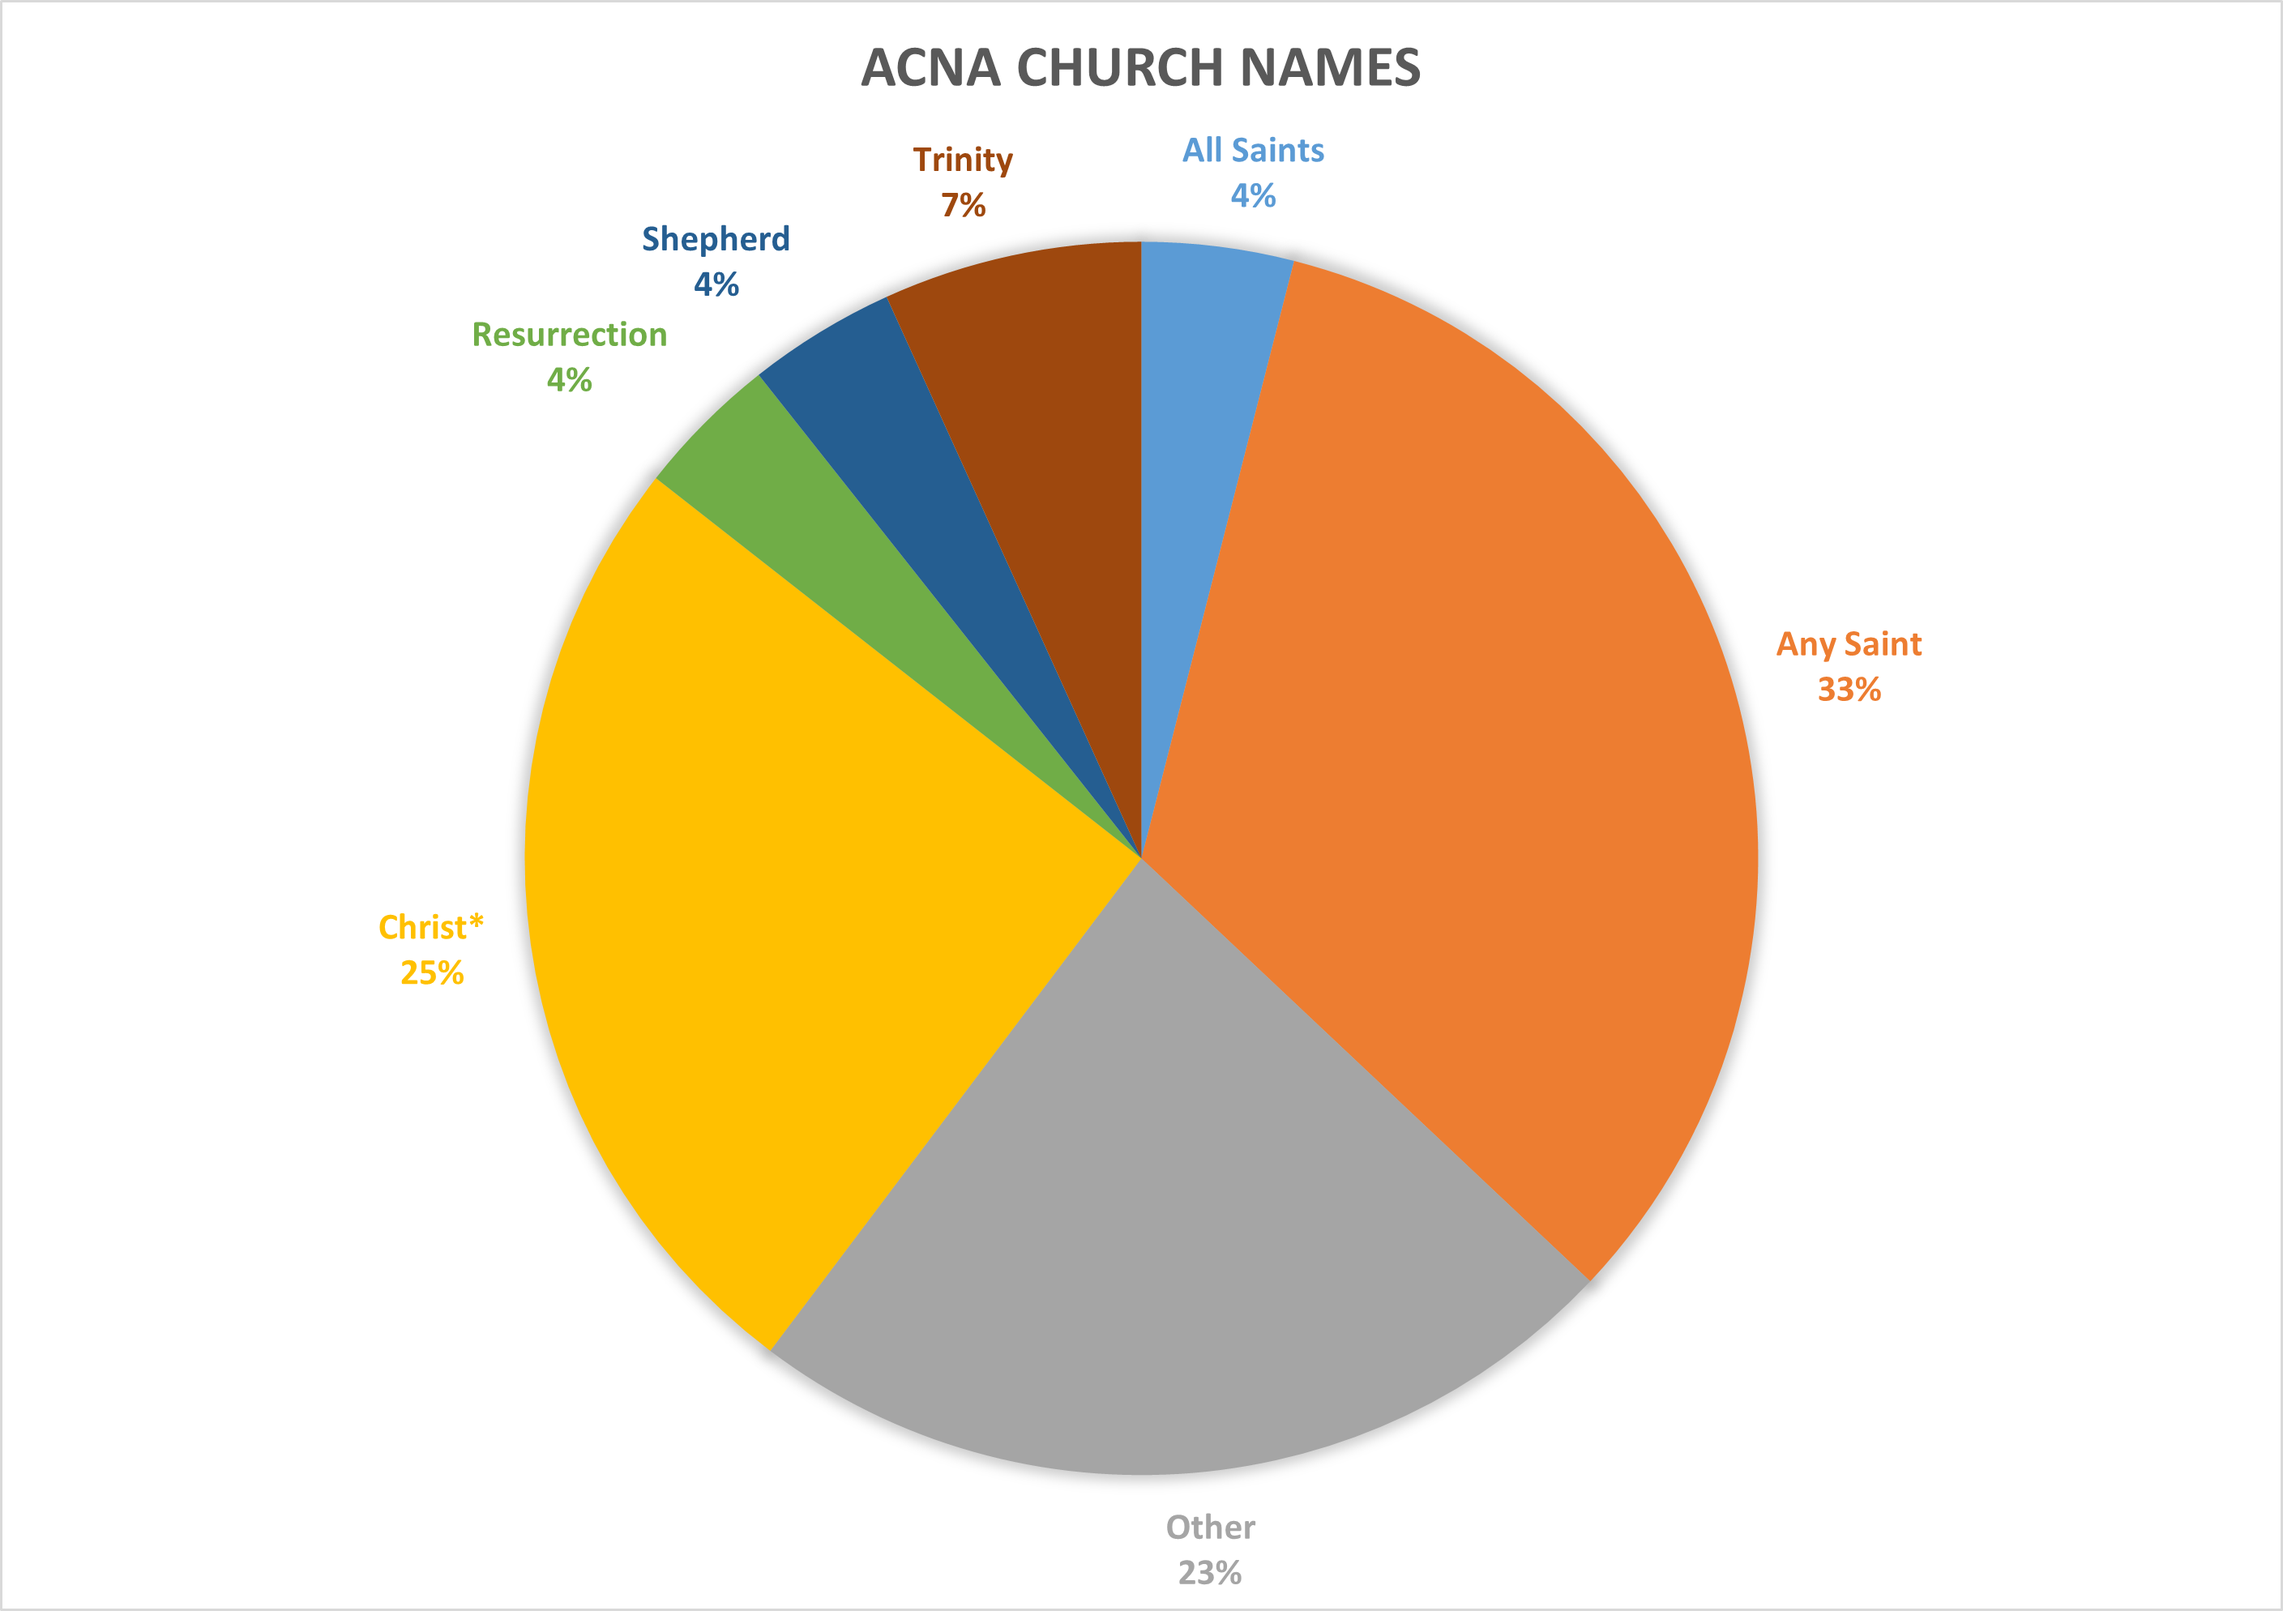
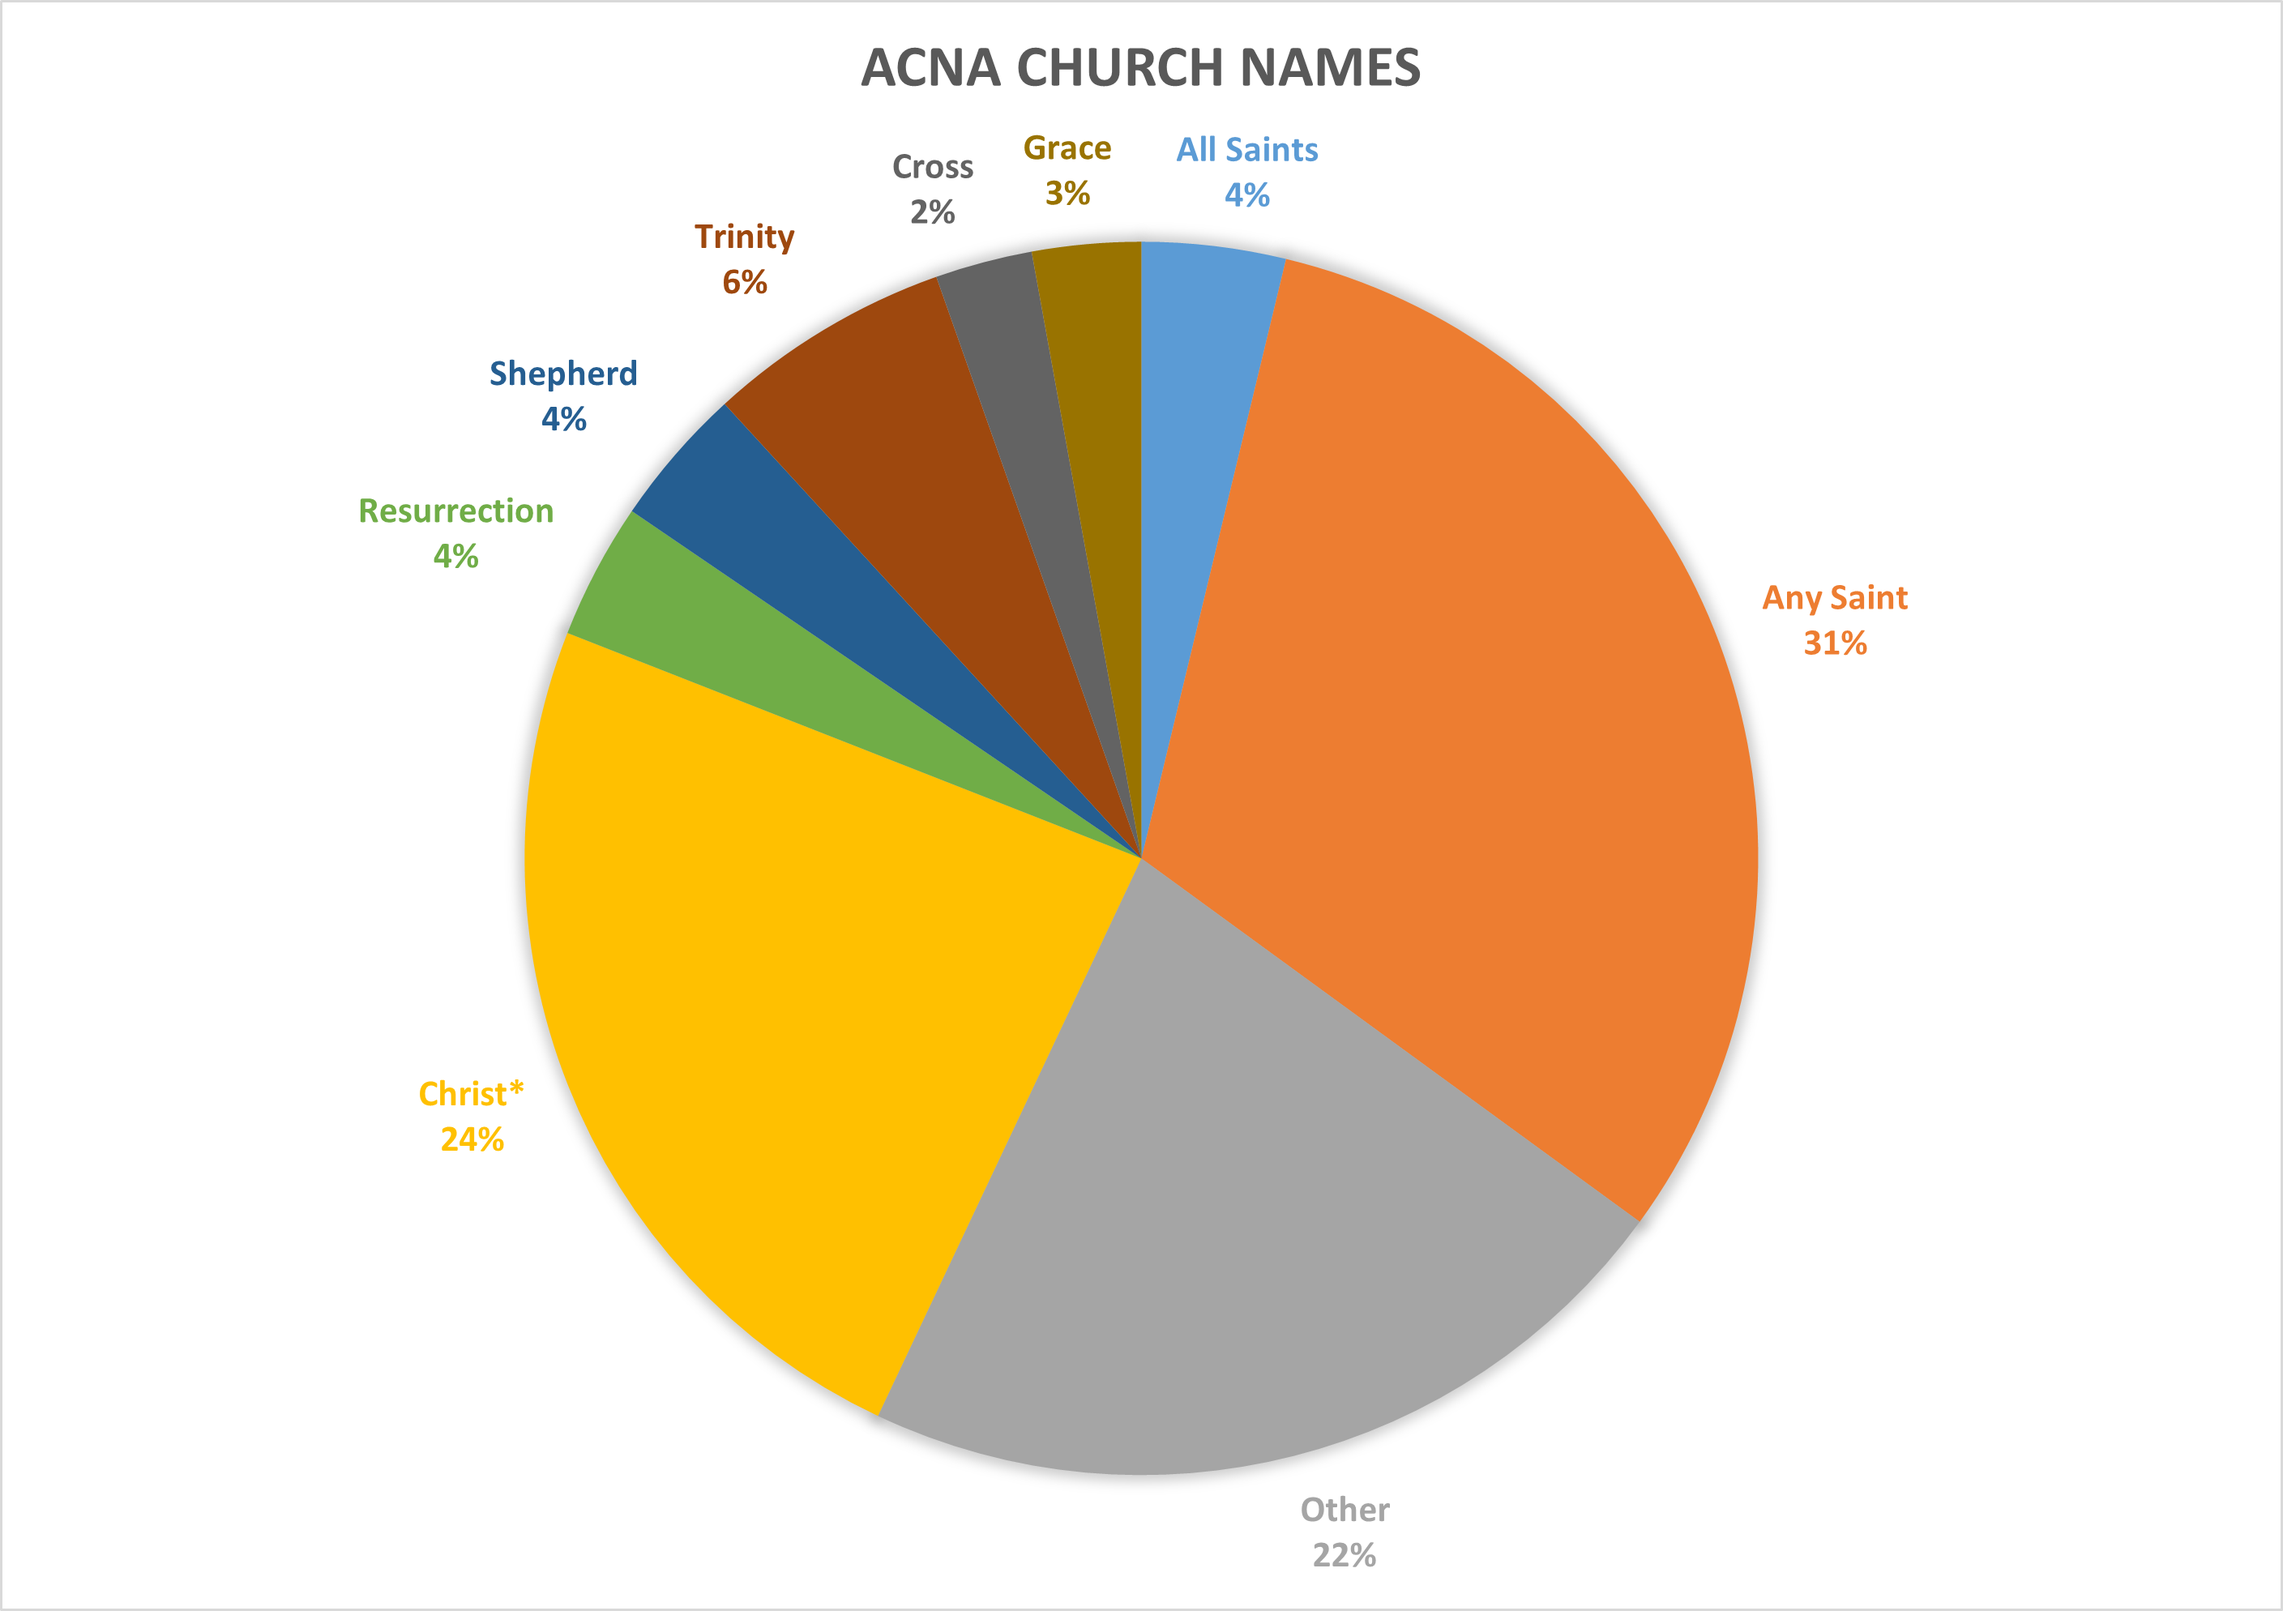
more

diff --git a/acna_names.html b/acna_names.html
@@ -40,13 +40,13 @@
       <p>I got the data (which was just names) from here: <a href="https://www.acna.org/admin_units?q%5Bkind_eq%5D=Congregation">acna.org.</a> There were 983 entities on that list, not all of which were churches. I did not carefully check if all were churches, but I did remove one senior center. Thus, I considered 982 churches.</p>
 
       <img src="images/all_names.png" alt="Pie chart with percentages of ACNA parish names by category." width="558" border="0" align="middle">
-      <br><p><b>Figure 1.</b> It's clear that I've been reading a lot less fiction (plays and poetry are included) over the years. I don't think that is ideal--a lot of the books that have stuck with me the longest have been fiction.</p>
+      <br><p><b>Figure 1.</b> This pie chart notes several of the most common categories that ACNA parish churches chose to name themselves after. This is not meant to be comprehensive. Main takeaways: almost one-third of churches are named after one or two specific saints. Almost one-quarter include "Christ" in their name in one of forms (e.g. Christ the King or Christ our Redeemer).</p>
       <img src="images/saints.png" alt="Number of parishes named after each of many saints." width="558"border="0" align="middle">
-        <br><p><b>Figure 2.</b> I have apparantly been getting harsher in my assessments. The median rating also dropped from 4 stars in 2018-2020 to 3 stars in 2021.</p>
+        <br><p><b>Figure 2.</b> There are a lot of different saints that ANCA churches named themselves after. A .txt file list all instances, including saints with only one church named after them is <a href="saints.txt">here.</a></p>
       <img src="images/evangelists.png" alt="Number of parishes named after each of the four evangelists." width="558" border="0" align="middle">
-        <br><p><b>Figure 3. </b>Maybe I'm just spending time with books I don't like as much.</p>
+        <br><p><b>Figure 3. </b>John was the disciple Jesus loved, but he is apparantly also the Evangelist Anglicans love.</p>
       <img src="images/disciples.png" alt="Number of parishes named after each of the twelve disciples." width="558" border="0" align="middle">
-        <br><p><b>Figure 4. </b>This is interesting. I took a look at whether the principal author was a man or a woman, and found a massive increase in the amount of material written by women I've been reading. In 2018 I read only one book written by a woman (<i>To Kill a Mockingbird</i>) and twenty-seven written by men (only ten male authors, however). By 2021 this was up to 30%.</p>
+        <br><p><b>Figure 4. </b>*David here is not King David but St. David of Wales.<br>Poor Judas (not Iscariot) never gets churches named after him because his mom and dad gave him the <a href="http://yeshuaincontext.com/2011/03/jewish-names-in-galilee-and-judea">fourth most common name</a> of his time.</p>
       <img src="images/shepherd.png" alt="Divisions among the churches named after Christ as shepherd." width="558" border="0" align="middle">
         <br><p><b>Figure 5.</b> The Dark Ages are real haha. That big spike in books written in the BC period in 2019 was due to an Athenian playwrights kick.</p>
 <br><h3>The Genres</h3>
